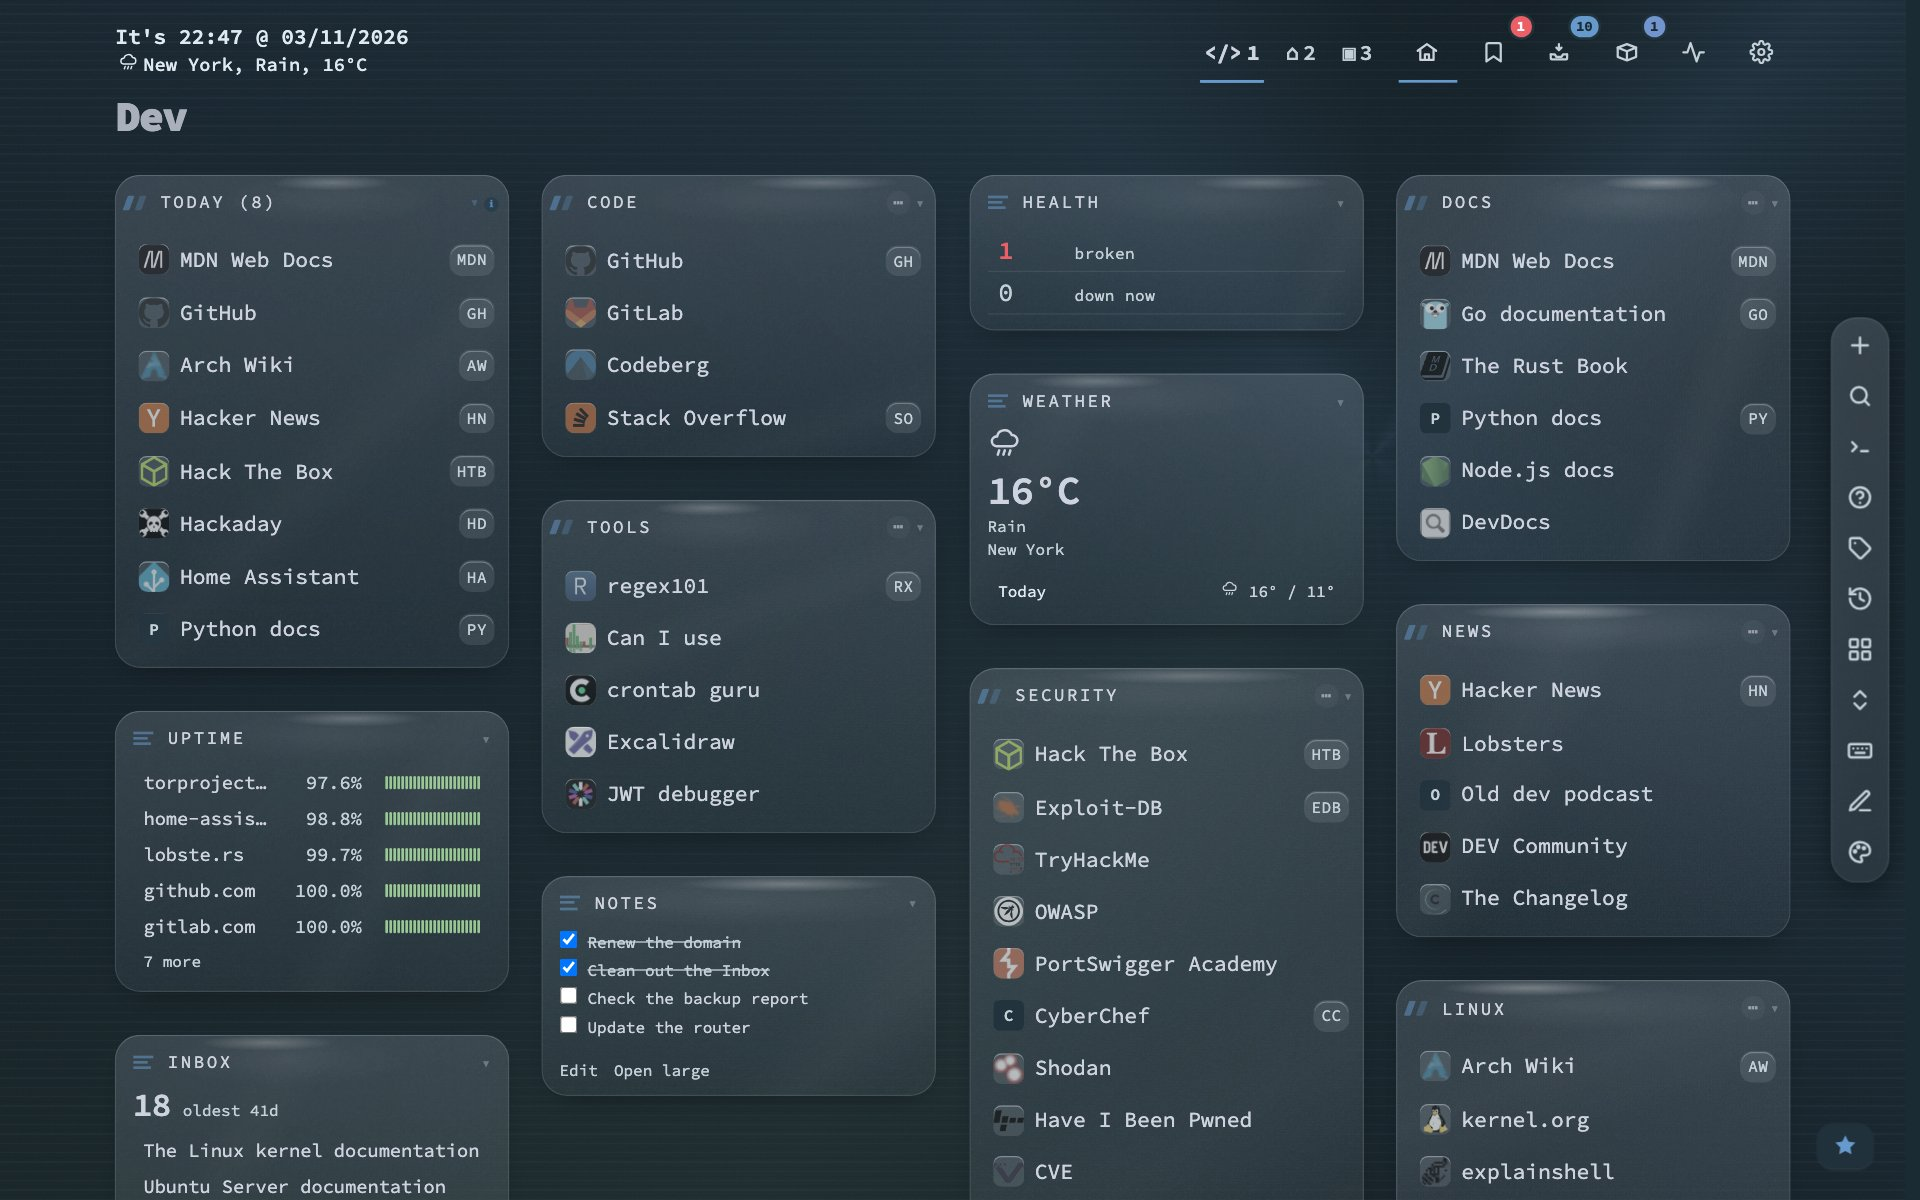
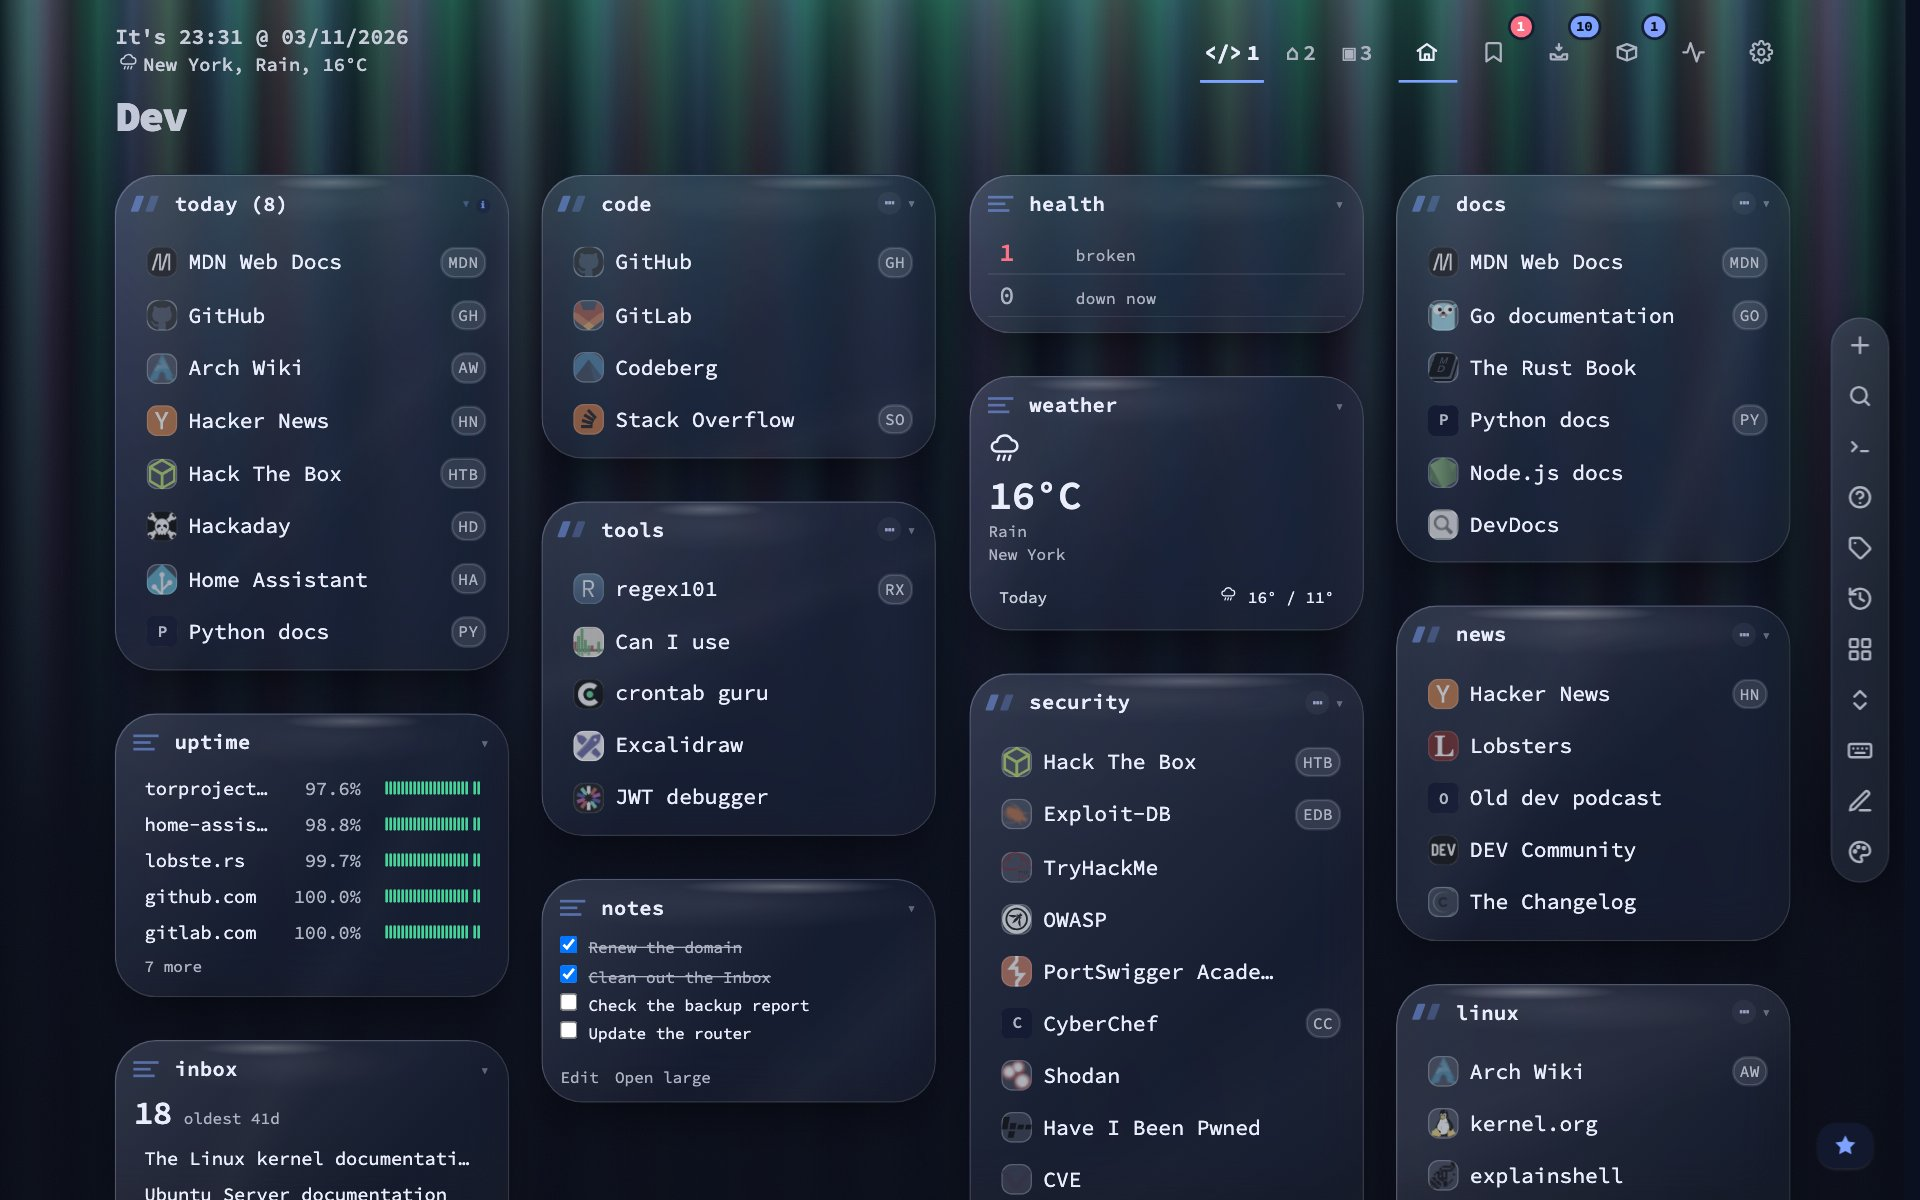
Docs: new pictures, README hero in Aurora Glass, changelog

diff --git a/tests/readme-screenshots.spec.js b/tests/readme-screenshots.spec.js
@@ -219,7 +219,7 @@ function pic(name, theme, scene, { patch = '', tweak = null, viewport = null } =
     });
 }
 
-pic('dashboard', 'oceanic-steel-dark', async (page) => {
+pic('dashboard', 'aurora-glass-dark', async (page) => {
     await setup(page);
     await openDashboard(page);
     await full(page, 'nextdash-dashboard.jpg');

diff --git a/MANUAL.md b/MANUAL.md
@@ -3040,6 +3040,9 @@ These read one server, set once under Config → Unraid ([§16.6](#166-unraid-wi
 <p align="center"><img src="screenshots/manual.md/15-weather.jpg" alt="The Weather tile: rain at 16 °C in Leiden and the next five days" width="380"> <img src="screenshots/manual.md/15-rss.jpg" alt="The RSS tile: five headlines, newest first, each with its age" width="380"></p>
 <p align="center"><sub>The Weather and RSS tiles.</sub></p>
 
+<p align="center"><img src="screenshots/manual.md/16-tabs.jpg" alt="A dashboard with a Tabs tile, at a glance, holding three widgets as tabs named Health, Weather and Notes, with the Weather tab open, beside a Clock, a Countdown and two Jellyfin tiles" width="860"></p>
+<p align="center"><sub>A Tabs tile: three widgets of the page in one tile, one tab each.</sub></p>
+
 *What is new to watch?*
 
 | Kind | Shows |
@@ -4167,7 +4170,7 @@ The themes of version 1.0.0 are there too: **ThinkDashboard Classic** brings bac
 
 ### 17A.4 New and changed backdrops
 
-A theme's backdrop is the picture behind your bookmarks. There are now **266** (there were 29). The first 75 are shared: **every material has a pool of its own**, from seven to seventeen recipes, and a theme's choice comes from the pool of its material. The rest are drawn for a single theme pair, a Look or Ocean each, in that theme's colours, and belong to no pool. Two paper themes can have different backdrops, and both are paper backdrops. A terminal theme gets scanlines or a drafting grid, not a soft curtain.
+A theme's backdrop is the picture behind your bookmarks. There are now **266** (there were 29 before the new look and 75 in v1.22). The first 75 are shared: **every material has a pool of its own**, from seven to seventeen recipes, and a theme's choice comes from the pool of its material. The rest are drawn for a single theme pair, a Look or Ocean each, in that theme's colours, and belong to no pool. Two paper themes can have different backdrops, and both are paper backdrops. A terminal theme gets scanlines or a drafting grid, not a soft curtain.
 
 - **New** — haze, veil, spotlight, silk, caustics, dawn, linen, dotgrid, ruled and grain (calm, for reading); flare, spectrum, inkdrop, sunburst, tide, confetti and ember; and a family of patterns: scales, seigaiha, diamonds, bricks, checker, zigzag, isocube, tartan, rays, stitch, moire, deco, terrazzo, bauhaus, circuit, triangles, herring, windows, bubbles, petals and bamboo. Patterns now replace the colour washes that some themes drew before.
 - **For one theme** — Ocean draws its blue sea (`oceanblue`) and Concrete its bricks. The four Unraid themes get a rack and terminal backdrops (`rack`, `crt`, `bootlog`, `digirain`, `cellgrid`), card panels and the colours of a server.
@@ -4217,8 +4220,10 @@ Config reopens on the section and tab you left, for five minutes after you leave
 | **Overview** | One line of what needs you, then **Your install** — panels for bookmarks, the inbox, containers, health and statistics — beside **From nextDash**: the newest posts, the version you run, the newest features and a tip of the day ([§18.8](#188-overview-help-and-about)). |
 | **Appearance** | Look: Theme · Background · Surfaces — Bookmarks: Layout · Rows · Previews — Header & bars: Header · Action bar · Date & weather ([§17](#17-appearance)) |
 | **Bookmarks** | View · Tags · Tag suggestions · Your rules · Settings · Local copies ([§18.4](#184-config-bookmarks)) |
-| **Structure** | Categories · Pages · Finders · Collections ([§9](#9-pages-categories-and-collections)) |
+| **Watch feeds** | Feeds · Settings: every watched feed with its newest item, and how the news is kept and shown ([§14](#14-watch-feeds)) |
+| **Structure** | Categories · Pages · Collections ([§9](#9-pages-categories-and-collections)) |
 | **Behavior** | General · Keyboard & search · Privacy & sync ([§18.5](#185-behavior)) |
+| **Finders** | Your search shortcuts: name, shortcut and URL ([§8.6](#86-finders)) |
 | **Monitoring** | Checks · Notifications · Schedules ([§18.5](#monitoring)) |
 | **Inbox** | Collecting · List · Panel & clicks · Header icon ([§18.6](#186-config-inbox)) |
 | **Data & backups** | Backups & data · Sources · Webhooks · Icons & previews · Trash · Reset ([§20](#20-data-backups-and-import)) |
@@ -4294,9 +4299,15 @@ Before you type, the list starts with **Recent**: the last eight settings you op
 
 **What you changed.** **Show what I changed from the defaults** (or **What changed** on the Overview's Settings panel) opens a list titled *What you changed*, with a count. Each row is a setting that differs from the default, with its section and *now … , default …*. Clicking a row goes to the setting. **Copy as text** puts the list on the clipboard, for a bug report or to compare two installs. The list is read-only.
 
+<p align="center"><img src="screenshots/manual.md/18-what-you-changed.jpg" alt="The list titled What you changed, with a count: each row a setting that differs from the default, with its section, now and default values" width="560"></p>
+<p align="center"><sub>The What you changed list.</sub></p>
+
 <a id="layout-history"></a>
 
 **Layout history.** nextDash keeps earlier arrangements of each page: its widgets, their settings and the order of its blocks, not the links. They are kept when widgets are added, moved, closed or changed. **Restore an earlier layout of this page** lists them, newest first, under *Earlier layouts of “…”*, and each line says what restoring it would change (*brings back …*, *takes away …*, *puts the blocks in another order* or *changes widget settings*). **Restore** saves that layout back. The layout it replaces is kept too, so a restore can be undone the same way. The history travels in the backup.
+
+<p align="center"><img src="screenshots/manual.md/18-layout-history.jpg" alt="The Earlier layouts dialog of a page: layouts newest first, each with a line saying what restoring it would change and a Restore button" width="560"></p>
+<p align="center"><sub>Earlier layouts of a page.</sub></p>
 
 **Settings per device.** Settings live on the server, so every browser shows the same dashboard. **Keep settings on this device only** (Behavior → Privacy & sync) keeps appearance and layout in this browser instead. The few settings that stay shared — such as the custom favicon and font, collections, the action bar position, web search and container icons — carry an **all devices** mark.
 
@@ -4340,8 +4351,9 @@ The other tabs:
 |---|---|
 | **General** | Language; remember where you were on a page; **Lock layout**; open links in a new tab; allow localhost and private-network bookmarks; **Hypr mode**; **Notes widget → Notes are processed**, *On the server* (the default) or *In the browser*, which needs no requests while you type ([§16](#16-widgets)) |
 | **Keyboard & search** | Typing a bookmark shortcut, switch search mode, include finders, search unsorted bookmarks, fuzzy suggestions, prefer matches that start with the query, keep search open when empty, the search hint; **Web search** (engine, SearXNG address, Brave key, Test connection); and the keys: global shortcuts, shortcut hints on header links, the key legend under the grid |
-| **Watch feeds** | How long the news window stays open, how it looks, check watched feeds now ([§14](#14-watch-feeds)) |
 | **Privacy & sync** | **Count this install** (on by default, [§24.8](#248-analytics)), analytics, **Check GitHub for new releases**, posts from nextdash.cc; **Keep settings on this device only**; **Onboarding**: keyboard tips and how often they come, whether a section offers its tour on a first visit, the review and offer cards, every tour (replay it with its button), *Show quick start again*, and the list of corner cards — each **Answered** or **Not shown yet**, with **Show again** ([§4](#corner-cards)) |
+
+Watch feeds has its own section (Feeds · Settings, [§14](#14-watch-feeds)), and so has Finders; neither is a Behavior tab.
 
 Paste-to-quick-add, the inbox and how a kept link is filed moved to **Config → Inbox** ([§18.6](#186-config-inbox)).
 
@@ -5654,7 +5666,7 @@ Docker: the mounted volume (for example `./data`, mounted at `/app/data`). Binar
 |---|---|---|
 | QR code | A bookmark's address drawn as a code to scan with a phone, from `Shift + J` or the row menu; drawn in the browser, so the address goes nowhere. | [§6](#qr-code) |
 | Quick add (`&`) | Press `&`, type a name, address and optional shortcut on one line, and press Enter. | [§5.1](#51-quick-add) |
-| Quick start | The bar at the bottom of a new install's dashboard, and the guide it opens: what to do with the example links, the language, the weather and nine next steps. | [§2](#first-launch) |
+| Quick start | The bar at the bottom of a new install's dashboard, and the guide it opens: what to do with the example links, the language, the weather and ten next steps. | [§2](#first-launch) |
 | Quiet hours | A window in which alerts are held and then summed up in one message when it ends; the downtime still counts. | [§12.5](#quiet-hours) |
 
 <a id="glossary-r"></a>

diff --git a/CHANGELOG.md b/CHANGELOG.md
@@ -165,11 +165,13 @@ Widgets get a lot more to do: a Tabs widget, Clock and Countdown, duplicate, set
 - **new — Import a Homepage, Dashy or Homer configuration.**
 - **fix — Config no longer moves while a setting is saved.** The page is held in place in any browser.
 - **fix — Config tours do not open over a section you have left.**
+- **fix — "Nothing changed" says the right thing.** The message of the *What you changed* list and the one on a settings tab shared a text key, so a tab said *Every setting is at its default*. Each has its own now.
 
 ### Themes
 
 - **new — A backdrop recipe for every theme.** Each backdrop pair, each Look and Ocean (its own sonar) has a recipe of its own, drawn in the theme's colours.
 - **new — A better backdrop picker.** A short view, groups, search and thumbnails that load when you scroll to them. The backdrop settings sit with the backdrops in the theme studio.
+- **fix — The backdrop groups are in English.** The groups in the backdrop picker (Patterns, Colour & glow, Fire & light, Nature & water, Sky & space, Materials, Paper & ink, Tech) were Dutch in every language; they are English now and translated in the other five.
 - **new — Aurora Glass is the default theme** on new installs. Installs that already chose a theme keep it.
 - **new — Tag colours.** Give a tag a colour; it shows in the tag cloud, the rows and the preview.
 
@@ -188,6 +190,16 @@ Widgets get a lot more to do: a Tabs widget, Clock and Countdown, duplicate, set
 ### Assistant
 
 - **new — Tables and leaner answers.** The panel renders tables, and the assistant is asked for a shorter answer layout.
+
+### Docs
+
+- **docs — Config → Help and its tips are current.** Help says fifty-one widget kinds and lists the new ones, 266 backdrops with the short picker, the new commands, sums in search, tag colours, importing a Homepage, Dashy or Homer configuration, layout history, *What you changed* and the Overview chips. Nine new tips cover the Tabs widget, set times and days, the widget menu with its limits, tag colours, sums, *What you changed*, layout history, importing another dashboard and the extra commands.
+- **docs — Translations.** The v1.25.0 texts are in Dutch, German, French, Chinese and Spanish: all 202 new interface texts, the Help and the tips, and 47 texts that code asked for but `en.json` did not have (the digest, the backdrop picker, six commands).
+- **docs — MANUAL, README and the pictures.** The manual and README describe every new feature, count 266 backdrops and fifty-one widget kinds, and say a fresh install starts on Aurora Glass. The manual and README pictures were retaken in Aurora Glass.
+- **docs — Config → Overview and About → News & features** list five v1.25.0 features (new backdrops, Tabs/Clock/Countdown, layout history, search sums, what you changed and the import), in six languages.
+- **docs — Cheat sheet.** The cheat sheet and its PDF have a row for the arrow keys, `Home` and `End` in a Tabs widget.
+- **docs — `static/data/whats-new/v1.25.0.json` and its index entry**; the release leads the What's new window with three highlights (Tabs, Clock and Countdown; search sums; a backdrop for every theme). `whats-new-stub.js`'s `NEXTDASH_WHATS_NEW_DATA_VERSION` moved to `whats-new-v363` and `DASHBOARD_RELEASE` to v1.25.0. `go generate` refreshed `asset_hashes_gen.go`.
+- **docs — nextdash.cc.** The feature pages for widgets, search, Config, data, tags and themes show the new features with pictures; the theme gallery is retaken for all 192 families; the figures on the site are 266 backdrops and fifty-one widget kinds. About thirty wrong or stale sentences on the site were corrected (default theme, keys, tab names, chapter numbers, counts).
 
 ## v1.24.2 — 2 November 2026
 

diff --git a/README.md b/README.md
@@ -19,7 +19,7 @@ It started because my bookmark bar had become a graveyard, and grew into one pla
 - **Yours to keep.** One Go binary and plain JSON files, automatic backups, a 30-day trash, and imports from every browser, Pocket, Raindrop, linkding and more.
 
 <p align="center">
-  <img src="screenshots/nextdash-dashboard.jpg" alt="The nextDash dashboard in Oceanic Steel: categories in columns with live response times, and widgets for health, uptime, weather, the inbox and notes" width="100%" />
+  <img src="screenshots/nextdash-dashboard.jpg" alt="The nextDash dashboard in Aurora Glass: categories in columns with live response times, and widgets for health, uptime, weather, the inbox and notes" width="100%" />
 </p>
 
 🎨 **384 themes and a theme studio.** 192 theme families, each with a light and a dark half, drawn from twelve materials — lacquer, glass, frost, aurora, neon, velvet, enamel, brushed metal, carbon, paper, terminal and ink — and from three collections: eight neutrals, the Looks and ThinkDashboard Classic. **Aurora Glass** is the default on a new install (an install that already chose a theme keeps it), and every material draws its own surface, category header and widget header, as a **signature** or in the flat **Classic** way. **`Shift + A`** opens the theme studio beside your dashboard and changes the real page as you go: the theme, 75 backdrops with a quiet centre behind the bookmarks, depth, glow and card glass, the category headers, the type and the contrast — or one of twelve ready-made looks that set them all at once. **Compare** shows what you had, 🎲 tries something at random, and nothing is saved until **Apply**. Search by name or material, keep up to 24 favourites, follow your system's light and dark mode, or recolour any theme and build your own in the theme editor. *[Manual: The new look](MANUAL.md#17a-the-new-look)* · *[Manual: Appearance](MANUAL.md#17-appearance)*
@@ -95,7 +95,7 @@ nextDash is a bookmark dashboard that also knows your Docker host. The link to S
     <td width="50%" align="center" valign="top">
       <img src="screenshots/nextdash-dashboard.jpg" alt="Dashboard" width="100%" />
       <br />
-      <sub><b>Dashboard</b> <i>(Oceanic Steel)</i> — Categories in columns with a live response time on every checked link, and widgets between them: health, uptime with a heartbeat per site, the weather with its forecast, the inbox and a note. The header is one row: clock and weather, page numbers, and the views with their badges.</sub>
+      <sub><b>Dashboard</b> <i>(Aurora Glass)</i> — Categories in columns with a live response time on every checked link, and widgets between them: health, uptime with a heartbeat per site, the weather with its forecast, the inbox and a note. The header is one row: clock and weather, page numbers, and the views with their badges.</sub>
     </td>
     <td width="50%" align="center" valign="top">
       <img src="screenshots/nextdash-bookmarks-view.jpg" alt="Bookmarks view" width="100%" />
